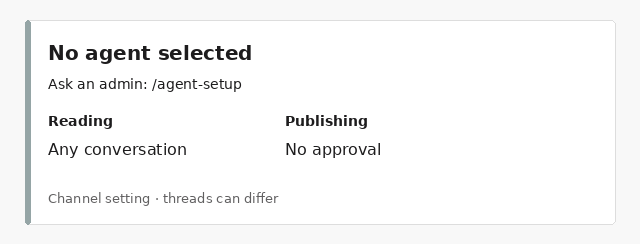
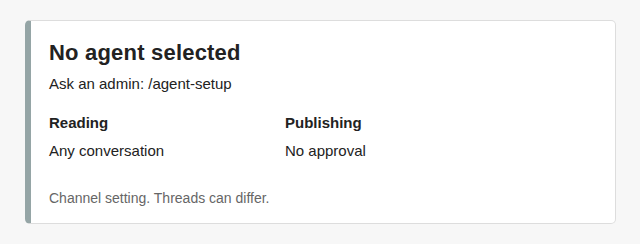
fix(here): separate card facts and update Slack footer

diff --git a/packages/core/tests/test_here_card.py b/packages/core/tests/test_here_card.py
@@ -29,33 +29,53 @@ NOW = datetime(2026, 1, 1, tzinfo=UTC)
 
 
 @pytest.mark.parametrize(
-    ("state", "first_line", "second_line"),
+    ("state", "expected_lines"),
     [
-        ("no_view", "No channel access", "Ask an admin to check Daimon's access."),
+        (
+            "no_view",
+            [
+                "No channel access",
+                "Ask an admin to check Daimon's access.",
+                "Reading: Any conversation",
+                "Publishing: No approval",
+            ],
+        ),
         (
             "no_replies",
-            "Replies disabled here",
-            "Reading: Any conversation · Publishing: No approval",
+            ["Replies disabled here", "Reading: Any conversation", "Publishing: No approval"],
         ),
-        ("no_agent", "No agent selected", "Ask an admin: /agent-setup"),
+        (
+            "no_agent",
+            [
+                "No agent selected",
+                "Ask an admin: /agent-setup",
+                "Reading: Any conversation",
+                "Publishing: No approval",
+            ],
+        ),
         (
             "blocked",
-            "ResearchBot can't answer here",
-            "Reading: Any conversation · Publishing: No approval",
+            [
+                "ResearchBot can't answer here",
+                "Reading: Any conversation",
+                "Publishing: No approval",
+            ],
         ),
         (
             "channel",
-            "ResearchBot answers here",
-            "Reading: Any conversation · Publishing: No approval",
+            ["ResearchBot answers here", "Reading: Any conversation", "Publishing: No approval"],
         ),
         (
             "thread",
-            "ResearchBot answers in this thread",
-            "Reading: Any conversation · Publishing: No approval",
+            [
+                "ResearchBot answers in this thread",
+                "Reading: Any conversation",
+                "Publishing: No approval",
+            ],
         ),
     ],
 )
-def test_mcp_plain_text_states(state: str, first_line: str, second_line: str) -> None:
+def test_mcp_plain_text_states(state: str, expected_lines: list[str]) -> None:
     card = HereCard(
         channel_rule=ChannelRule(),
         who_may_answer="",
@@ -75,10 +95,11 @@ def test_mcp_plain_text_states(state: str, first_line: str, second_line: str) ->
         text="",
     )
     text = render_here_card_text(card)
-    assert text.splitlines()[:2] == [first_line, second_line]
+    assert text.splitlines() == expected_lines
     assert "SECRET_NAME" not in text
     assert "ghp_fake_value" not in text
-    assert "Channel setting · threads can differ" not in text
+    assert "Channel setting. Threads can differ." not in text
+    assert " · " not in text
 
 
 def test_card_title_fits_discord_and_slack_limits() -> None:

diff --git a/packages/core/daimon/core/here_card.py b/packages/core/daimon/core/here_card.py
@@ -161,13 +161,10 @@ def render_here_card_text(card: HereCard) -> str:
     lines = [rendered.title]
     if rendered.subline is not None:
         lines.append(rendered.subline)
-    fields: list[str] = []
     if rendered.reading is not None:
-        fields.append(f"Reading: {rendered.reading}")
+        lines.append(f"Reading: {rendered.reading}")
     if rendered.publishing is not None:
-        fields.append(f"Publishing: {rendered.publishing}")
-    if fields:
-        lines.append(" · ".join(fields))
+        lines.append(f"Publishing: {rendered.publishing}")
     lines.extend(rendered.extras)
     return "\n".join(lines)
 

diff --git a/packages/adapters/slack/tests/test_here.py b/packages/adapters/slack/tests/test_here.py
@@ -103,8 +103,9 @@ def test_slack_block_kit_states(state: str, title: str, colour: str, subline: st
     } == {"*Reading*\nAny conversation", "*Publishing*\nNo approval"}
     assert blocks[-1] == {
         "type": "context",
-        "elements": [{"type": "plain_text", "text": "Channel setting · threads can differ"}],
+        "elements": [{"type": "plain_text", "text": "Channel setting. Threads can differ."}],
     }
+    assert " · " not in str(blocks)
 
 
 def test_slack_extra_lines_and_no_credentials() -> None:

diff --git a/packages/adapters/slack/daimon/adapters/slack/here.py b/packages/adapters/slack/daimon/adapters/slack/here.py
@@ -77,7 +77,7 @@ def build_here_attachment(card: HereCard) -> dict[str, Any]:
     blocks.append(
         {
             "type": "context",
-            "elements": [{"type": "plain_text", "text": "Channel setting · threads can differ"}],
+            "elements": [{"type": "plain_text", "text": "Channel setting. Threads can differ."}],
         }
     )
     return {"color": shown.colour, "blocks": blocks}

diff --git a/docs/slack.md b/docs/slack.md
@@ -8,7 +8,7 @@ what operators should understand about the resulting trust model.
 `/here` sends only the caller a compact channel card. Its title names the agent
 that answers here or the reason replies are unavailable. Reading and Publishing
 show the effective scope and whether approval is required. The footer says
-`Channel setting · threads can differ` because Slack slash commands have no
+`Channel setting. Threads can differ.` because Slack slash commands have no
 thread context. Credential names and values are absent from the card.
 
 ### Session output files
